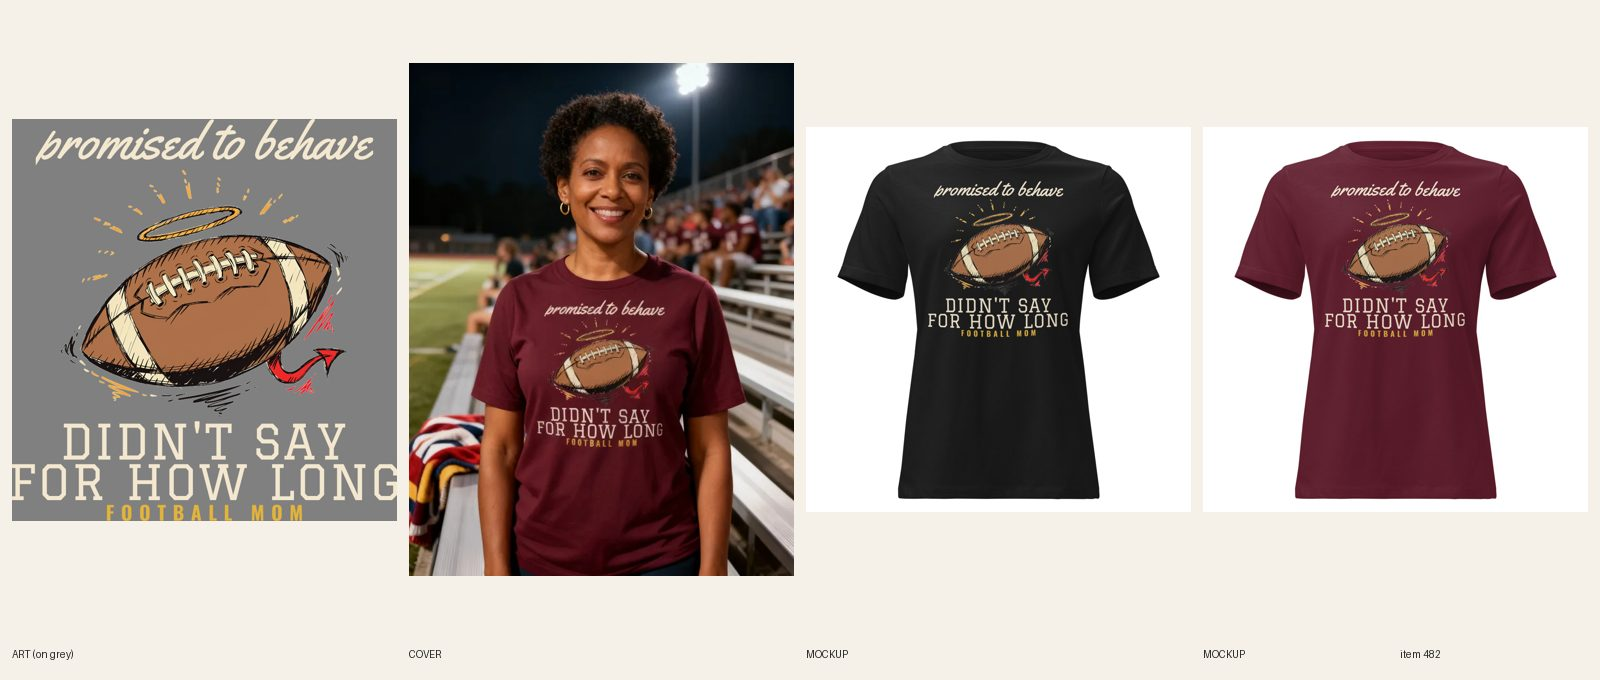
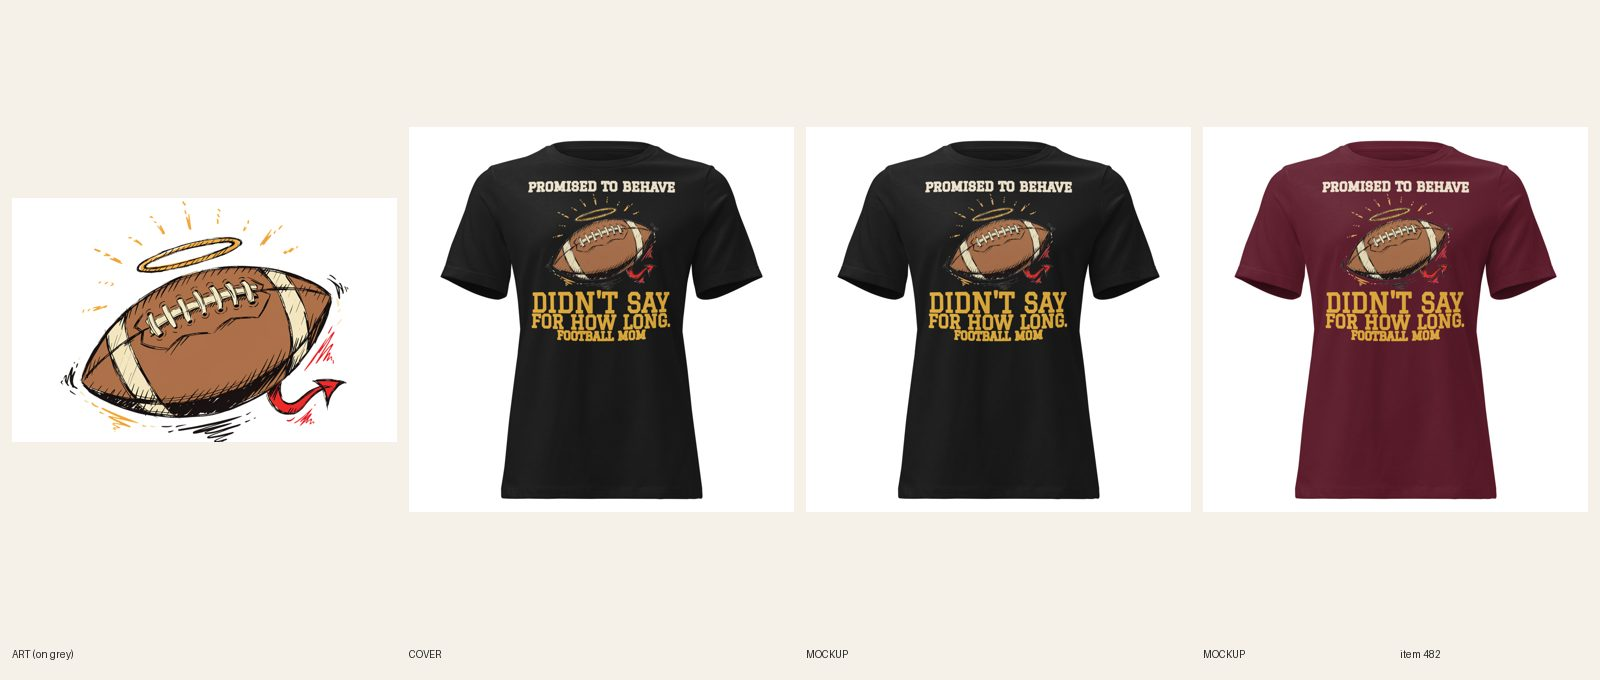
[B] review 482 Football Mom tee redo (type)

diff --git a/docs/pipeline/482-promised-to-behave-football-mom-tee.md b/docs/pipeline/482-promised-to-behave-football-mom-tee.md
@@ -1,4 +1,4 @@
-status: REDO
+status: REVIEW
 lane: B
 type: new
 id: 482
@@ -25,3 +25,4 @@ kd: 20
 - 2026-10-17 18:23 UTC [B]: Built from Claude's final print (designs/first5/football-print.png, no new art; real-font lines, no ring/panel/box). Bella 6400 #360, Black + Maroon + Navy + Forest Green (all read; reds on the devil tail sink slightly on Maroon, incidental), 24 variants $24.99 no compare-at, DRAFT gid 15363981639984, tees category. Printful file 1088390029, sync product 482545457 24/24, FW 1500 TOP 75. Mockups per color + back attached. Keyword: primary 'football mom outfit' 390/KD 31 (football mom shirt 3600/52 and tee 3600/50 left as collection head); 'football mom tshirt' 3600/48 once. FAQ 6 Qs 40-60 words. Cover: registry 692 (Ethiopian-American woman, bleachers Friday night), seedream 1 attempt, all words legible, alt starts Woman. Audit-local PASS. design-crops/variant-photo-audit rerun after publish (storefront can't see DRAFTs).
 - 2026-10-17 19:13 UTC director: approved. ACTIVE, published to Online Store + Headless + Google & YouTube; audit --handle PASS (0 warn). LIVE.
 - 2026-10-18 17:22 UTC director: QUALITY RESET grade B (type only), REDO. The product stays ACTIVE (same handle, URL, title keyword). Keep the line "promised to behave / DIDN'T SAY FOR HOW LONG / FOOTBALL MOM" and the art. 1. Type: Thin script top line on maroon/black; condensed light bottom lines, tiny third line. 2. Quality reset type bar (docs/backlog/quality-reset.md, 'The new bar'): headline at least 90% of the art width, heavy, colors pulled from the art; second line at least 45% of the headline's height, never a thin script on a dark or mid garment; use the lettering as a shape (arch, stacked lockup, words breaking into the art), not a plain bar above and a script line below; no font used on more than 1 in 6 of the last 30 designs. 3. New print file means a new cover per R6.10 and a fresh review sheet (R7.7). While quality-reset.md says PAUSED, only lane A builds, and only the samples step 2 names.
+- 2026-10-20 10:38 UTC builder [B]: REDO 482 (B grade, type only) done in place (stays ACTIVE; line and art kept; title unchanged; lettering sentence in the copy fixed). New lockup in Graduate (varsity slab, 0 of last 30 commits), bold stroke added: PROMISED TO BEHAVE cream above at 2880 px, then DIDN'T SAY / FOR HOW LONG. gold stacked at 2880 px each (headline 2880 / punch 2880 = 100%, punch lines taller), small FOOTBALL MOM at 50% width (cap height well over 0.3 in). One dark file for Black, Maroon, Navy, Forest Green (all dark; no light color offered, no light file needed). FW 1650 TOP 75. Verified 24/24 on the new file (no old ids), back logo kept. 4 fronts replaced in place with new alt. Phone-size read OK on all four. Cover: AI cover shows old script; handle added to retired-covers.json (flat shot). Sheet docs/review/482.jpg. fal $0.

diff --git a/docs/intake-log.md b/docs/intake-log.md
@@ -1,4 +1,6 @@
 2026-10-20 10:55 UTC — [D] Director run: inbox nothing new. 6 LIVE (cap): #620 #622 #637 #280 #281 #283, audit PASS (#637 was DRAFT, now ACTIVE + published). Reviewed 19 new redos: 16 approved and held, 3 REDO (#500 fir/for-real pun R3.1; #575 no faith cue R3.12; #586 narrow, clipped punch R3.7.8). Queue: A 13, B/C/E 12 READY, no new briefs. No Telegram (not a digest run, nothing for Sam). Lock released.
+RUNNING director since 2026-10-20 10:28 UTC
+2026-10-20 10:38 UTC — [B] Builder run: redid #482 Women's Football Mom tee (type only: PROMISED TO BEHAVE / DIDN'T SAY FOR HOW LONG., Graduate stacked, same halo-football art, 24/24 synced). REVIEW. fal $0.
 2026-10-20 10:27 UTC — [C] Run summary: 43 lane C redo items to REVIEW this run (#635 554 552 561 323 495 503 622 637 448 563 620 436 621 506 341 415 489 334 465 442 509 450 368 397 405 398 508 364 371 516 526 524 528 571 626 607 346 553 468 572 636, plus round-2 fixes on #448 #495 #621 #436 #506 #341 #397 #509 #507 after director notes). 17 line redos retitled (card 7i), punch widths logged (card 7h), every variant relinked and verified on the Printful API before REVIEW. Not built: #457/#458 Hanukkah (R3.15), #604 (waits on source #543, still REDO in lane B). 12 READY items left untouched (R5.2 favorites proof not fetchable here, same as lanes B/E). fal $0, no secrets committed. Lock released.
 2026-10-20 10:16 UTC — [A] Builder run: redid #586 Women's Christmas Capybara tee (line+type: THE LIGHTS WON. / I'M FINE., same capybara-in-lights art, Alfa Slab full width, file 1090290293, 30/30 relinked, 5 fronts replaced in place, copy updated, plain product shot). REVIEW. fal $0.
 2026-10-20 10:29 UTC — [B] Builder run: redid #573 Women's Fishing tee (type only: OUT-FISHED HIM. / AGAIN. in Bevan, punch at full headline width, same dock art, 36/36 synced). REVIEW. fal $0.
